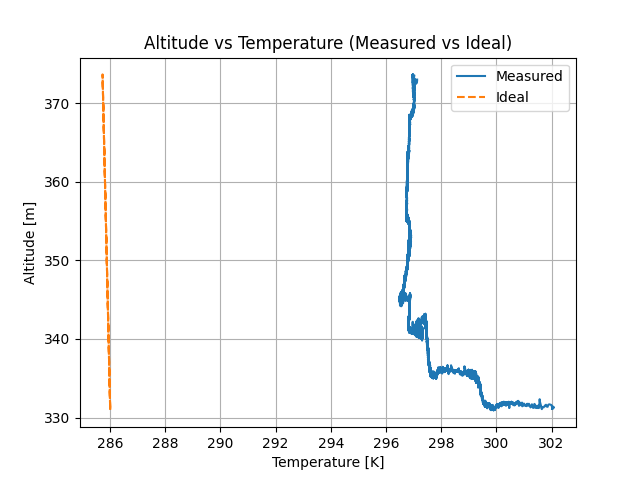
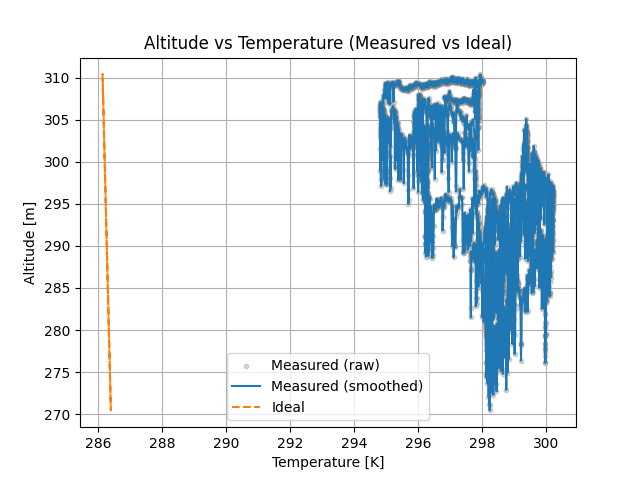
Modified the graph interface to include smoothed data.

diff --git a/Data/post_data_processing.py b/Data/post_data_processing.py
@@ -1,4 +1,3 @@
-
 """
 Post processing script for analyzing and visualizing data from a CSV file.
 """
@@ -8,18 +7,20 @@ Post processing script for analyzing and visualizing data from a CSV file.
 import numpy as np
 import pandas as pd
 from matplotlib import pyplot as plt
+from scipy.ndimage import gaussian_filter1d
 
 
 
 # CSV Data Loading and Labeling ===================================================================
 # Read the CSV file and Assign Column Names -------------------------------------------------------
-filename = r"C:\Users\maxwe\OneDrive\Documents\PlatformIO\Projects\Balloon\Data\static_data_test.csv"
+filename = r"C:\Users\maxwe\OneDrive\Documents\PlatformIO\Projects\Balloon\Data\dynamic_data_test.csv"
 df = pd.read_csv(filename)
 df.columns = [
     "Time [s]", "Altitude [m]", "Pressure [Pa]", "Temperature [K]",
     "Accel X [m/s^2]", "Accel Y [m/s^2]", "Accel Z [m/s^2]",
     "Jerk X [m/s^3]", "Jerk Y [m/s^3]", "Jerk Z [m/s^3]"
 ]
+
 
 
 # Compute and Print Statistics --------------------------------------------------------------------
@@ -69,45 +70,56 @@ for h in altitudes:
 
 # Data Plotting ===================================================================================
 # Time vs Acceleration ----------------------------------------------------------------------------
-plt.figure()
-plt.plot(df["Time [s]"], df["Accel X [m/s^2]"], label = "Accel X")
-plt.plot(df["Time [s]"], df["Accel Y [m/s^2]"], label = "Accel Y")
-plt.plot(df["Time [s]"], df["Accel Z [m/s^2]"], label = "Accel Z")
-plt.xlabel("Time [s]")
-plt.ylabel("Acceleration [m/s^2]")
-plt.title("Time vs Acceleration")
-plt.legend()
-plt.grid()
+fig, axs = plt.subplots(3, 1, figsize = (10, 8), sharex = True)
+for i, (axis, color) in enumerate(zip(['X', 'Y', 'Z'], ['blue', 'green', 'orange'])):
+    raw = df[f"Accel {axis} [m/s^2]"]
+    smooth = gaussian_filter1d(raw, sigma = 2)
+    axs[i].scatter(df["Time [s]"], raw, alpha = 0.3, s = 10, color = "gray", label = f"Accel {axis} (raw)")
+    axs[i].plot(df["Time [s]"], smooth, color = color, label = f"Accel {axis} (smooth)")
+    axs[i].set_ylabel(f"A{axis} [m/s^2]")
+    axs[i].legend()
+    axs[i].grid()
+axs[-1].set_xlabel("Time [s]")
+fig.suptitle("Time vs Acceleration")
 plt.savefig(r"C:\Users\maxwe\OneDrive\Documents\PlatformIO\Projects\Balloon\Images\Time_vs_Acceleration.png")
 
 
 # Time vs Jerk ----------------------------------------------------------------------------
-plt.figure()
-plt.plot(df["Time [s]"], df["Jerk X [m/s^3]"], label = "Jerk X")
-plt.plot(df["Time [s]"], df["Jerk Y [m/s^3]"], label = "Jerk Y")
-plt.plot(df["Time [s]"], df["Jerk Z [m/s^3]"], label = "Jerk Z")
-plt.xlabel("Time [s]")
-plt.ylabel("Jerk [m/s^3]")
-plt.title("Time vs Jerk")
-plt.legend()
-plt.grid()
+fig, axs = plt.subplots(3, 1, figsize = (10, 8), sharex = True)
+for i, (axis, color) in enumerate(zip(['X', 'Y', 'Z'], ['blue', 'green', 'orange'])):
+    raw = df[f"Jerk {axis} [m/s^3]"]
+    smooth = gaussian_filter1d(raw, sigma = 2)
+    axs[i].scatter(df["Time [s]"], raw, alpha = 0.3, s = 10, color = "gray", label = f"Jerk {axis} (raw)")
+    axs[i].plot(df["Time [s]"], smooth, color = color, label = f"Jerk {axis} (smooth)")
+    axs[i].set_ylabel(f"J{axis} [m/s^3]")
+    axs[i].legend()
+    axs[i].grid()
+axs[-1].set_xlabel("Time [s]")
+fig.suptitle("Time vs Jerk")
 plt.savefig(r"C:\Users\maxwe\OneDrive\Documents\PlatformIO\Projects\Balloon\Images\Time_vs_Jerk.png")
 
 
 # Time vs Altitude ----------------------------------------------------------------------------
 plt.figure()
-plt.plot(df["Time [s]"], df["Altitude [m]"])
+raw = df["Altitude [m]"]
+smooth = gaussian_filter1d(raw, sigma = 2)
+plt.scatter(df["Time [s]"], raw, alpha = 0.3, s = 10, color = "gray", label = "Raw")
+plt.plot(df["Time [s]"], smooth, label = "Smoothed")
 plt.xlabel("Time [s]")
 plt.ylabel("Altitude [m]")
 plt.title("Time vs Altitude")
+plt.legend()
 plt.grid()
 plt.savefig(r"C:\Users\maxwe\OneDrive\Documents\PlatformIO\Projects\Balloon\Images\Time_vs_Altitude.png")
 
 
 # Altitude vs Measured & Ideal Temperature ----------------------------------------------------------------------------
 plt.figure()
-plt.plot(df["Temperature [K]"], df["Altitude [m]"], label = "Measured")
-plt.plot(ideal_T, df["Altitude [m]"], label = "Ideal", linestyle = '--')
+raw = df["Temperature [K]"]
+smooth = gaussian_filter1d(raw, sigma = 2)
+plt.scatter(raw, df["Altitude [m]"], alpha = 0.3, s = 10, color = "gray", label = "Measured (raw)")
+plt.plot(smooth, df["Altitude [m]"], label = "Measured (smoothed)")
+plt.plot(ideal_T, df["Altitude [m]"], label = "Ideal", linestyle = "--")
 plt.xlabel("Temperature [K]")
 plt.ylabel("Altitude [m]")
 plt.title("Altitude vs Temperature (Measured vs Ideal)")
@@ -118,8 +130,11 @@ plt.savefig(r"C:\Users\maxwe\OneDrive\Documents\PlatformIO\Projects\Balloon\Imag
 
 # Altitude vs Measured & Ideal Pressure ----------------------------------------------------------------------------
 plt.figure()
-plt.plot(df["Pressure [Pa]"], df["Altitude [m]"], label = "Measured")
-plt.plot(ideal_P, df["Altitude [m]"], label = "Ideal", linestyle = '--')
+raw = df["Pressure [Pa]"]
+smooth = gaussian_filter1d(raw, sigma = 2)
+plt.scatter(raw, df["Altitude [m]"], alpha = 0.3, s = 10, color = "gray", label = "Measured (raw)")
+plt.plot(smooth, df["Altitude [m]"], label = "Measured (smoothed)")
+plt.plot(ideal_P, df["Altitude [m]"], label = "Ideal", linestyle = "--")
 plt.xlabel("Pressure [Pa]")
 plt.ylabel("Altitude [m]")
 plt.title("Altitude vs Pressure (Measured vs Ideal)")
@@ -129,28 +144,30 @@ plt.savefig(r"C:\Users\maxwe\OneDrive\Documents\PlatformIO\Projects\Balloon\Imag
 
 
 # Altitude vs Acceleration X, Y, and Z ----------------------------------------------------------------------------
-plt.figure()
-plt.plot(df["Accel X [m/s^2]"], df["Altitude [m]"], label = "Accel X")
-plt.plot(df["Accel Y [m/s^2]"], df["Altitude [m]"], label = "Accel Y")
-plt.plot(df["Accel Z [m/s^2]"], df["Altitude [m]"], label = "Accel Z")
-plt.xlabel("Acceleration [m/s^2]")
-plt.ylabel("Altitude [m]")
-plt.title("Altitude vs Accel X, Y, Z")
-plt.legend()
-plt.grid()
+fig, axs = plt.subplots(3, 1, figsize = (10, 8), sharex = True)
+for i, (axis, color) in enumerate(zip(['X', 'Y', 'Z'], ['blue', 'green', 'orange'])):
+    raw = df[f"Accel {axis} [m/s^2]"]
+    smooth = gaussian_filter1d(raw, sigma = 2)
+    axs[i].scatter(raw, df["Altitude [m]"], alpha = 0.3, s = 10, color = color, label = f"Accel {axis} (raw)")
+    axs[i].set_ylabel("Altitude [m]")
+    axs[i].legend()
+    axs[i].grid()
+axs[-1].set_xlabel("Acceleration [m/s^2]")
+fig.suptitle("Altitude vs Acceleration")
 plt.savefig(r"C:\Users\maxwe\OneDrive\Documents\PlatformIO\Projects\Balloon\Images\Altitude_vs_Acceleration.png")
 
 
 # Altitude vs Jerk X, Y, and Z ----------------------------------------------------------------------------
-plt.figure()
-plt.plot(df["Jerk X [m/s^3]"], df["Altitude [m]"], label = "Jerk X")
-plt.plot(df["Jerk Y [m/s^3]"], df["Altitude [m]"], label = "Jerk Y")
-plt.plot(df["Jerk Z [m/s^3]"], df["Altitude [m]"], label = "Jerk Z")
-plt.xlabel("Jerk [m/s^3]")
-plt.ylabel("Altitude [m]")
-plt.title("Altitude vs Jerk X, Y, Z")
-plt.legend()
-plt.grid()
+fig, axs = plt.subplots(3, 1, figsize = (10, 8), sharex = True)
+for i, (axis, color) in enumerate(zip(['X', 'Y', 'Z'], ['blue', 'green', 'orange'])):
+    raw = df[f"Jerk {axis} [m/s^3]"]
+    smooth = gaussian_filter1d(raw, sigma = 2)
+    axs[i].scatter(raw, df["Altitude [m]"], alpha = 0.3, s = 10, color = color, label = f"Jerk {axis} (raw)")
+    axs[i].set_ylabel("Altitude [m]")
+    axs[i].legend()
+    axs[i].grid()
+axs[-1].set_xlabel("Jerk [m/s^3]")
+fig.suptitle("Altitude vs Jerk")
 plt.savefig(r"C:\Users\maxwe\OneDrive\Documents\PlatformIO\Projects\Balloon\Images\Altitude_vs_Jerk.png")
 
 
